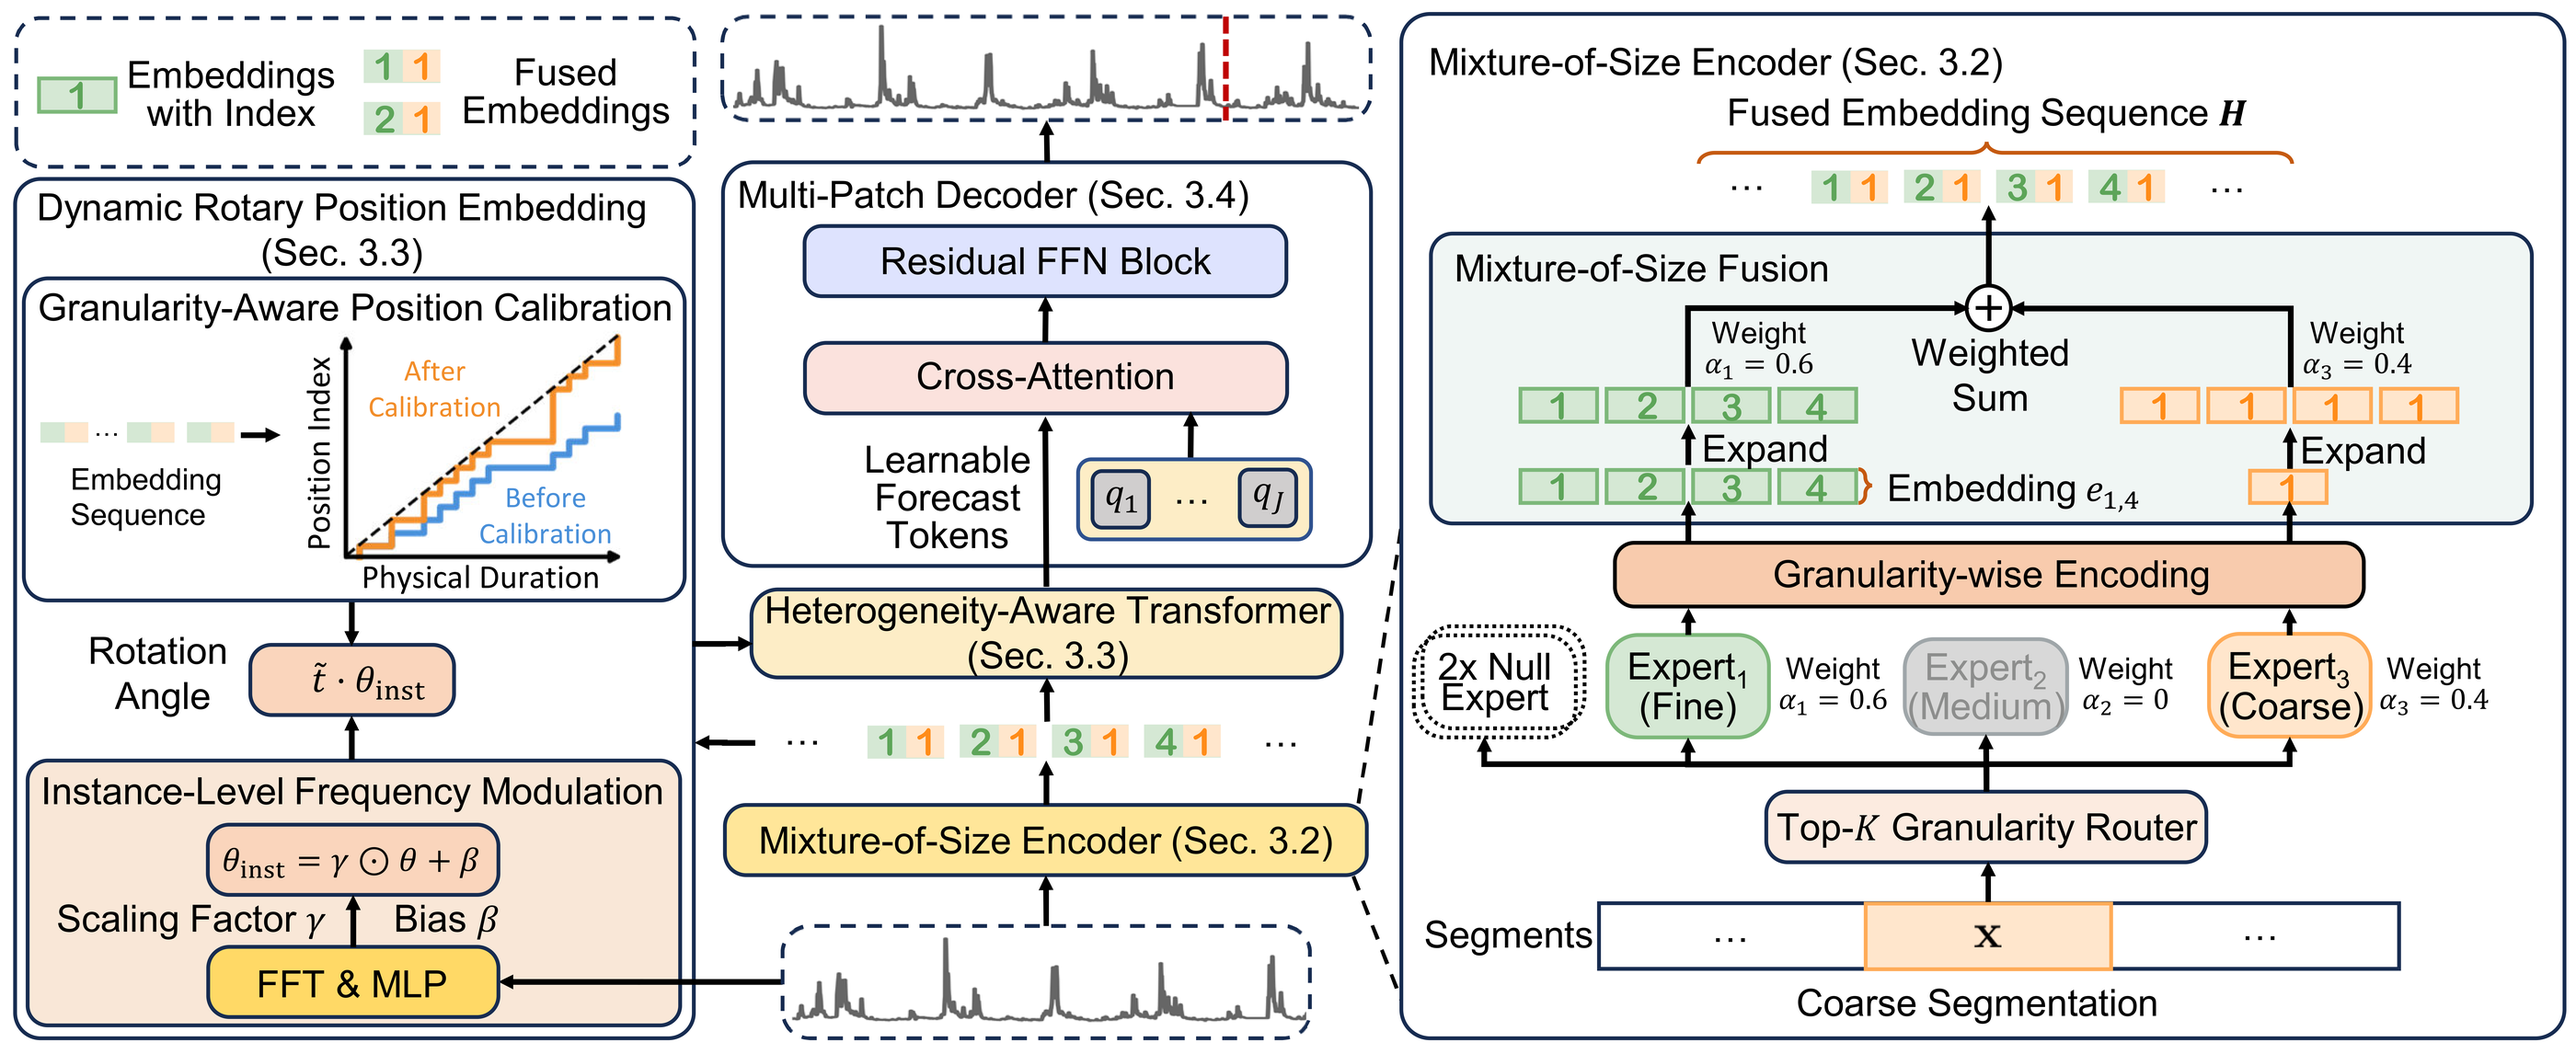
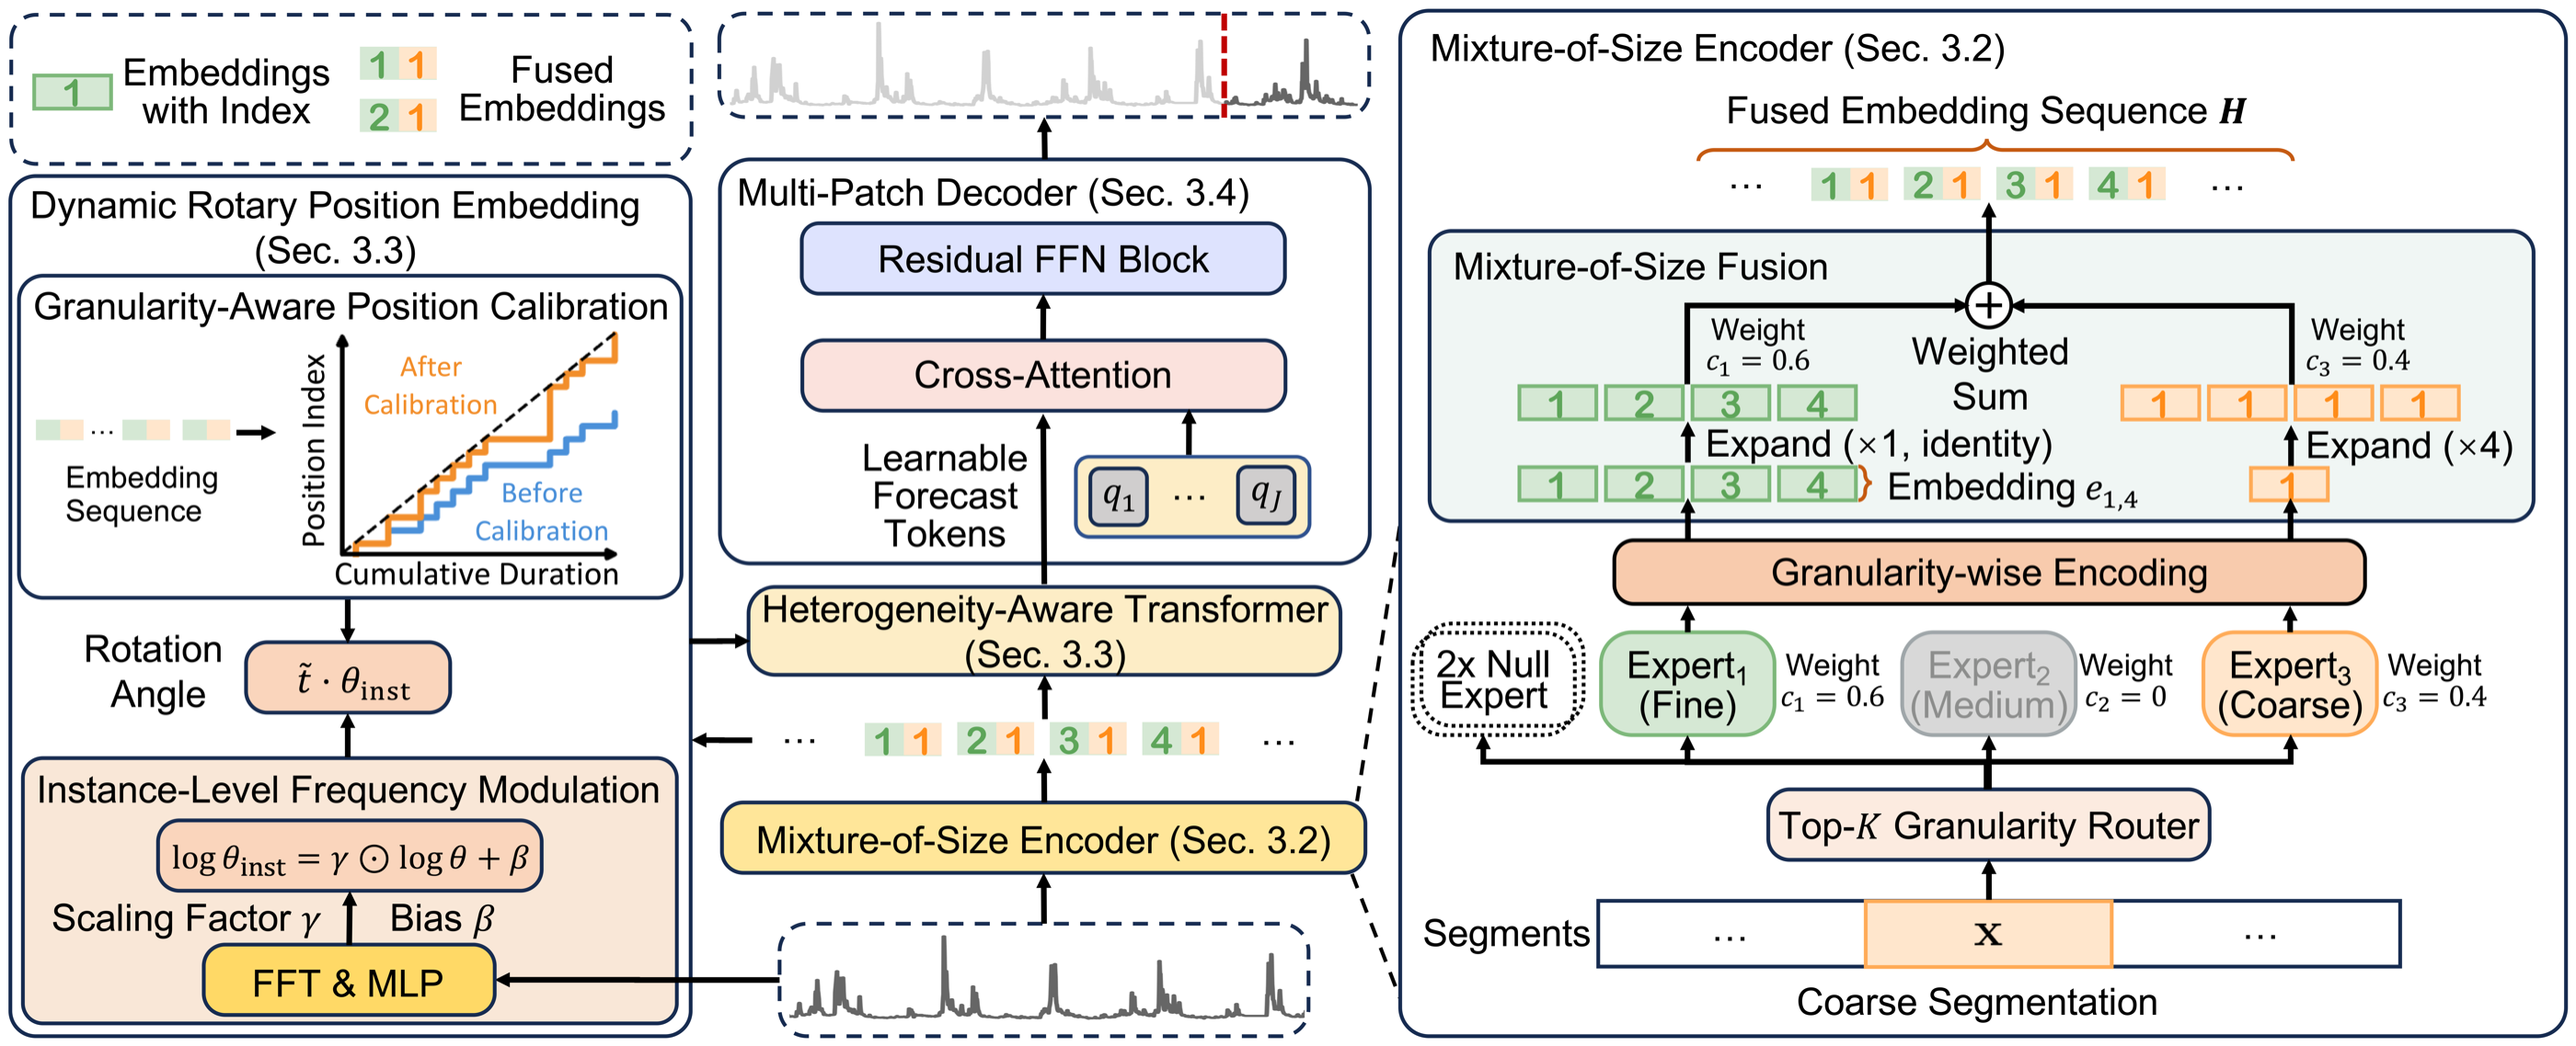
docs(kairos): update method figure

Changed region(s): [[0.0, 0.0, 1.0, 1.0], [0.3107, 0.3383, 0.4971, 0.3998]]

diff --git a/Kairos/index.html b/Kairos/index.html
@@ -290,8 +290,8 @@
           </div>
         </div>
         <figure class="figure">
-          <a href="./static/images/method.png" aria-label="Open the figure at original resolution" target="_blank" rel="noopener noreferrer">
-            <img src="./static/images/method-web.png" alt="Kairos architecture: Mixture-of-Size Encoder, Heterogeneity-Aware Transformer with DRoPE, and Multi-Patch Decoder." loading="lazy" width="2800" height="1146">
+          <a href="./static/images/method.png?v=ad8da76e42" aria-label="Open the figure at original resolution" target="_blank" rel="noopener noreferrer">
+            <img src="./static/images/method-web.png?v=54813060d1" alt="Kairos architecture: Mixture-of-Size Encoder, Heterogeneity-Aware Transformer with DRoPE, and Multi-Patch Decoder." loading="lazy" width="2800" height="1138">
           </a>
           <figcaption class="figure-caption"><strong>Figure 2.</strong> The architecture of <span class="small-caps">Kairos</span>. (i) The Mixture-of-Size Encoder adaptively tokenizes input. (ii) The Heterogeneity-Aware Transformer processes tokens using DRoPE. (iii) The Multi-Patch Decoder predicts future patches in parallel.</figcaption>
         </figure>
